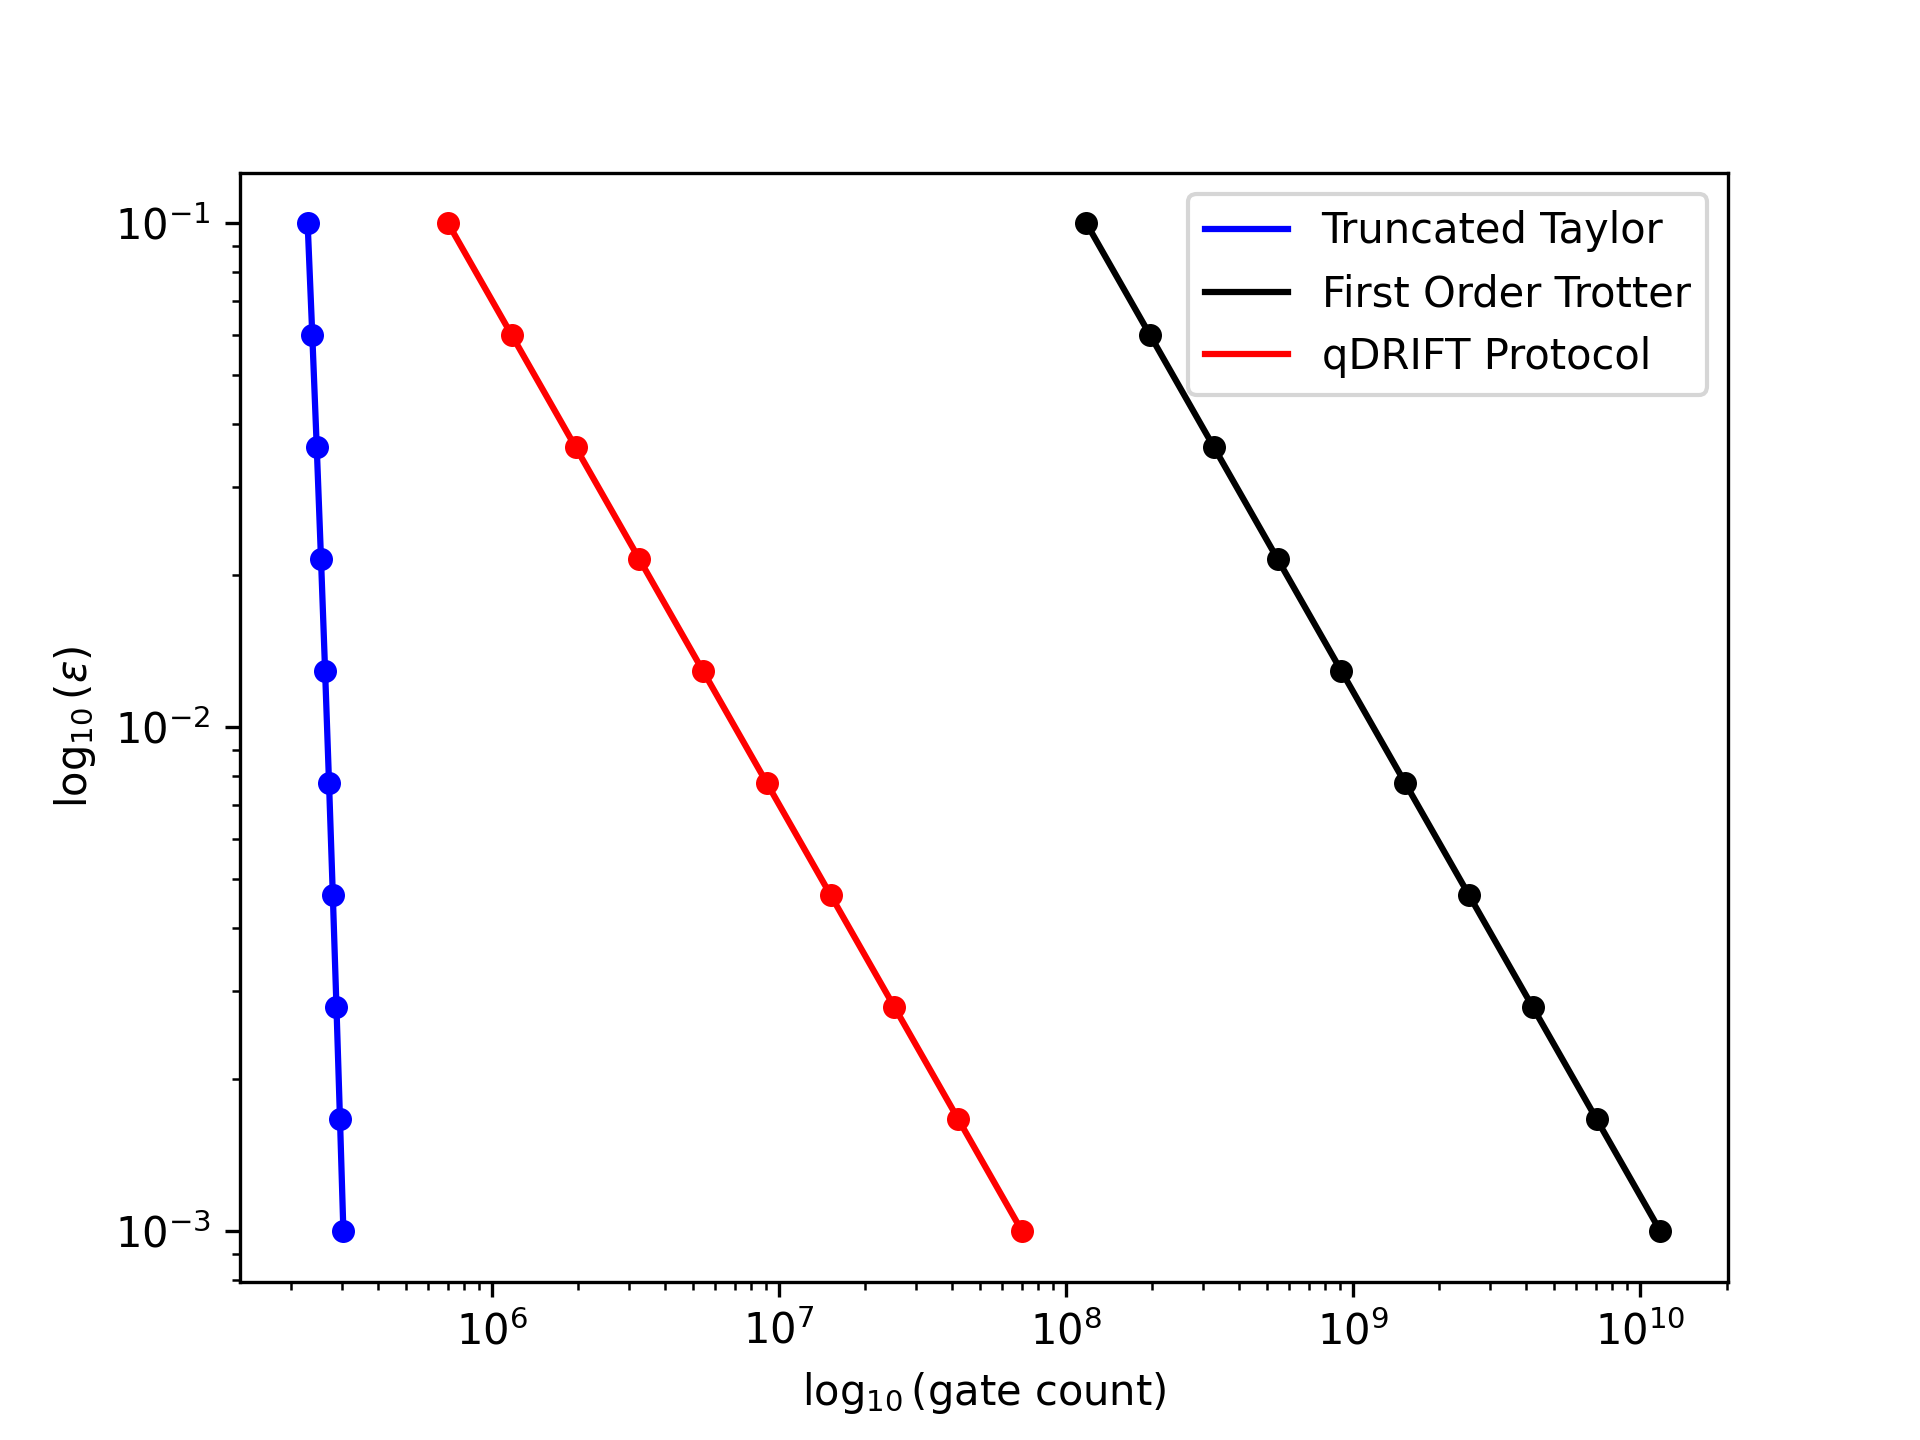
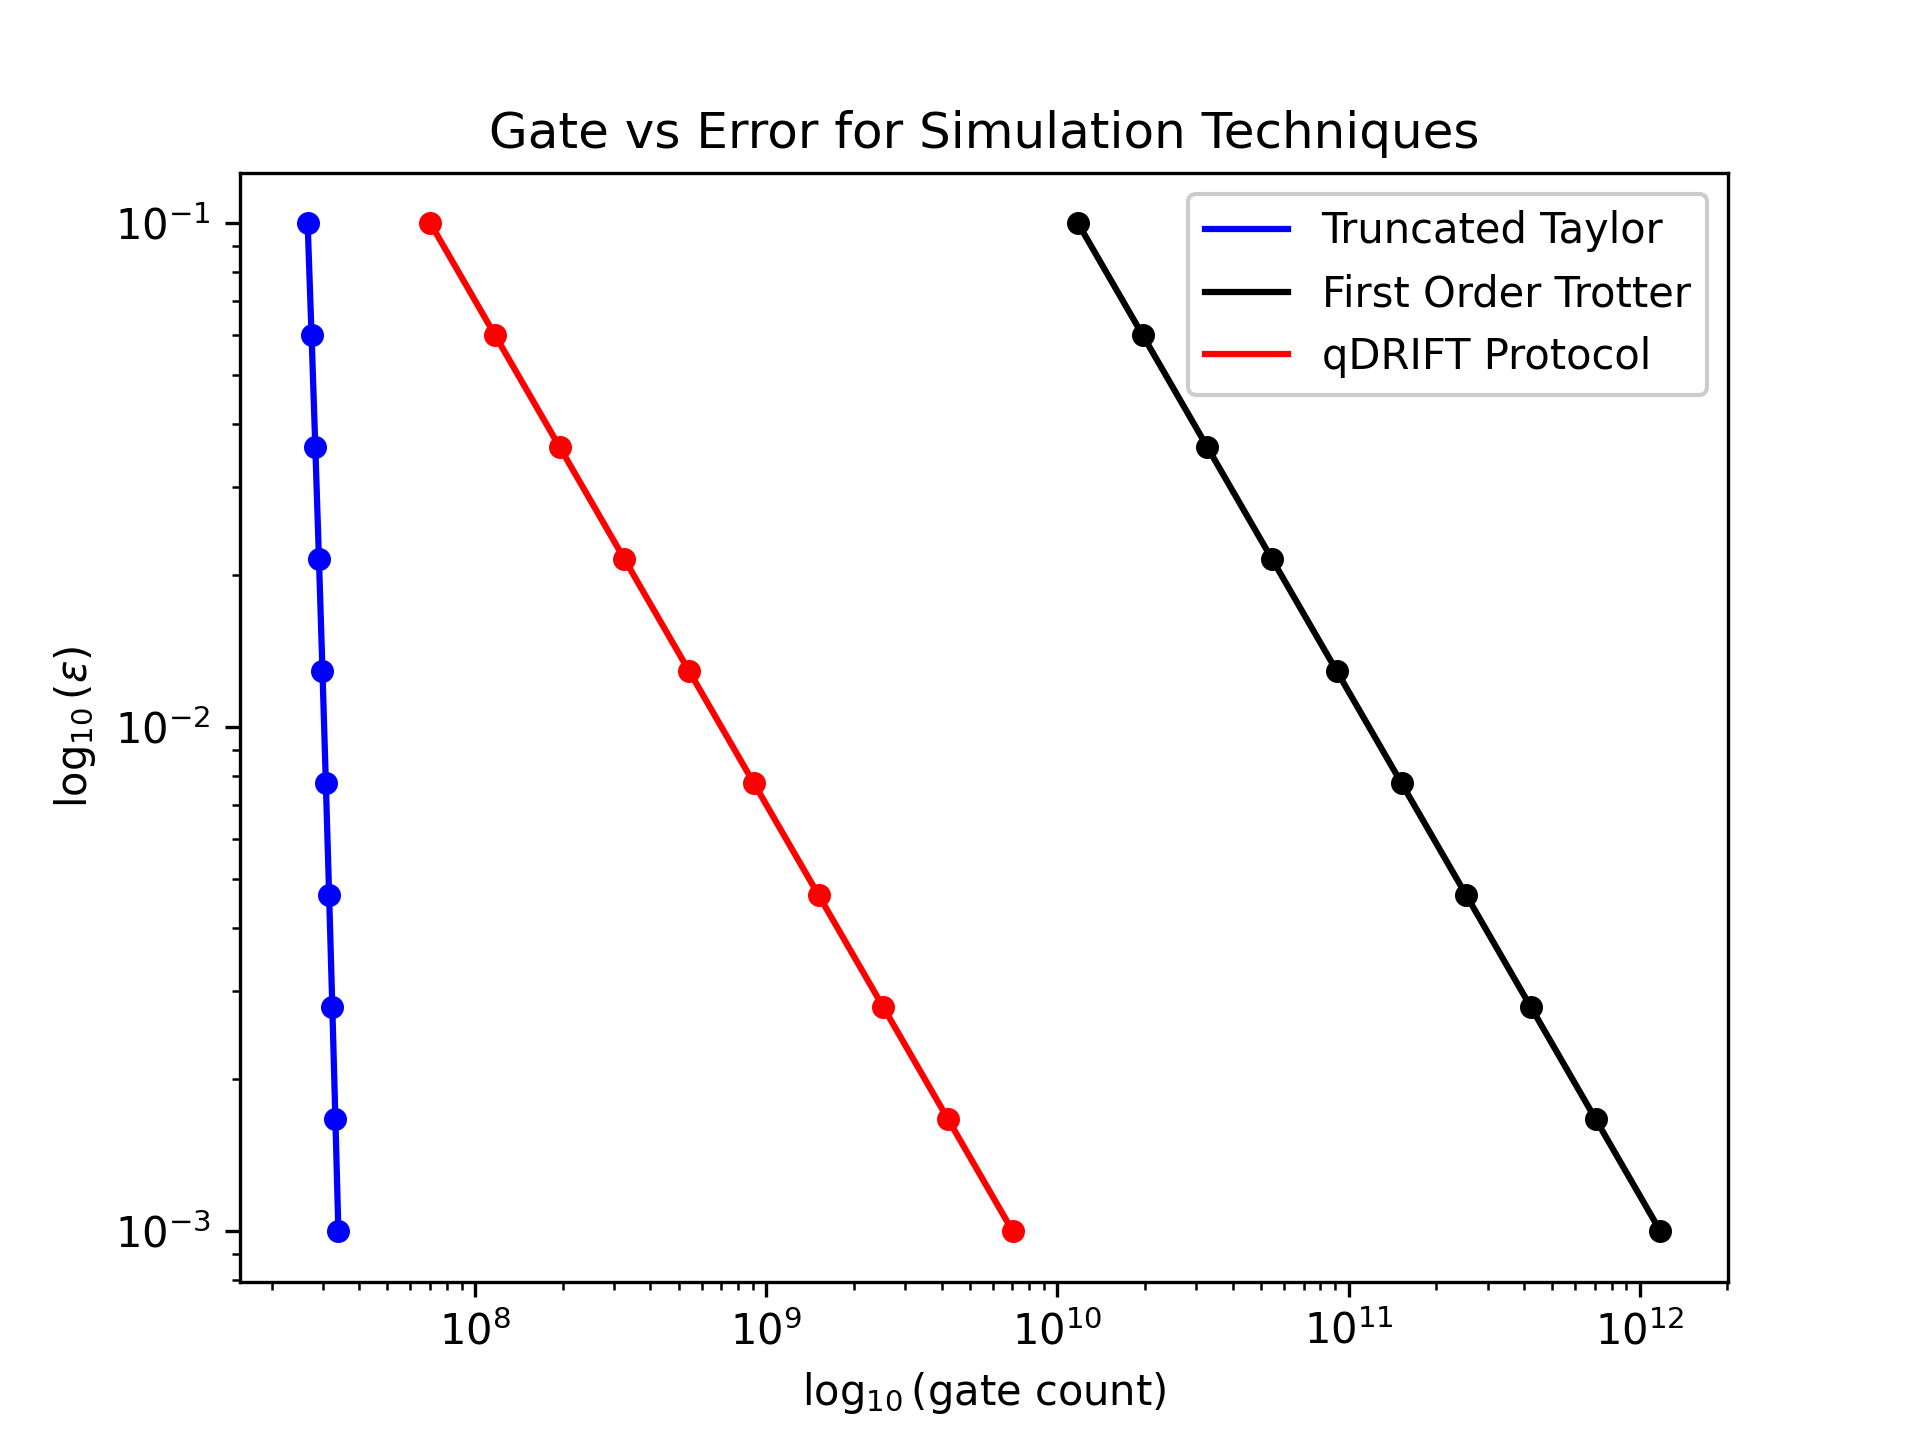
y error fixed

diff --git a/ising/benchmark/gate_err_multi_t.py b/ising/benchmark/gate_err_multi_t.py
@@ -41,8 +41,8 @@ def plot_gate_error(
             result = results[method]
             if ind == 0:
                 sns.lineplot(
-                    y=result,
-                    x=error_points,
+                    x=result,
+                    y=error_points,
                     ax=ax,
                     label=config["label"],
                     color=config["color"],
@@ -50,26 +50,26 @@ def plot_gate_error(
                 )
             else:
                 sns.lineplot(
-                    y=result,
-                    x=error_points,
+                    x=result,
+                    y=error_points,
                     ax=ax,
                     color=config["color"],
                     linestyle=linestyle[ind],
                 )
 
-            sns.scatterplot(y=result, x=error_points, ax=ax, color=config["color"])
+            sns.scatterplot(x=result, y=error_points, ax=ax, color=config["color"])
 
         # ax.text(error_points[-1] * 2, results["taylor"][-1] * 1.6, f"t={time}")
 
-    ax.invert_xaxis()
+    # ax.invert_xaxis()
     ax.set_xscale("log")
     ax.set_yscale("log")
-    ax.set_xlabel(r"$\log_{10}(\epsilon)$")
-    ax.set_ylabel(r"$\log_{10}(\text{gate count})$")
+    ax.set_ylabel(r"$\log_{10}(\epsilon)$")
+    ax.set_xlabel(r"$\log_{10}(\text{gate count})$")
 
     ax.set_title("Gate vs Error for Simulation Techniques")
 
-    ax.legend(loc="upper left", framealpha=1)
+    ax.legend(loc="upper right", framealpha=1)
     # plt.legend()
     diagram_name = "plots/benchmark/gate_count_multi_t.png"
     print(f"Saving diagram at:{diagram_name}")
@@ -83,7 +83,7 @@ if __name__ == "__main__":
     end_err_exp = -3
     point_count = 10
     obs_norm = 1
-    time = [1e5]
+    time = [100]
     scale = [1.5, 1.5]
     plot_gate_error(
         qubit, h_val, start_err_exp, end_err_exp, point_count, obs_norm, time, scale
